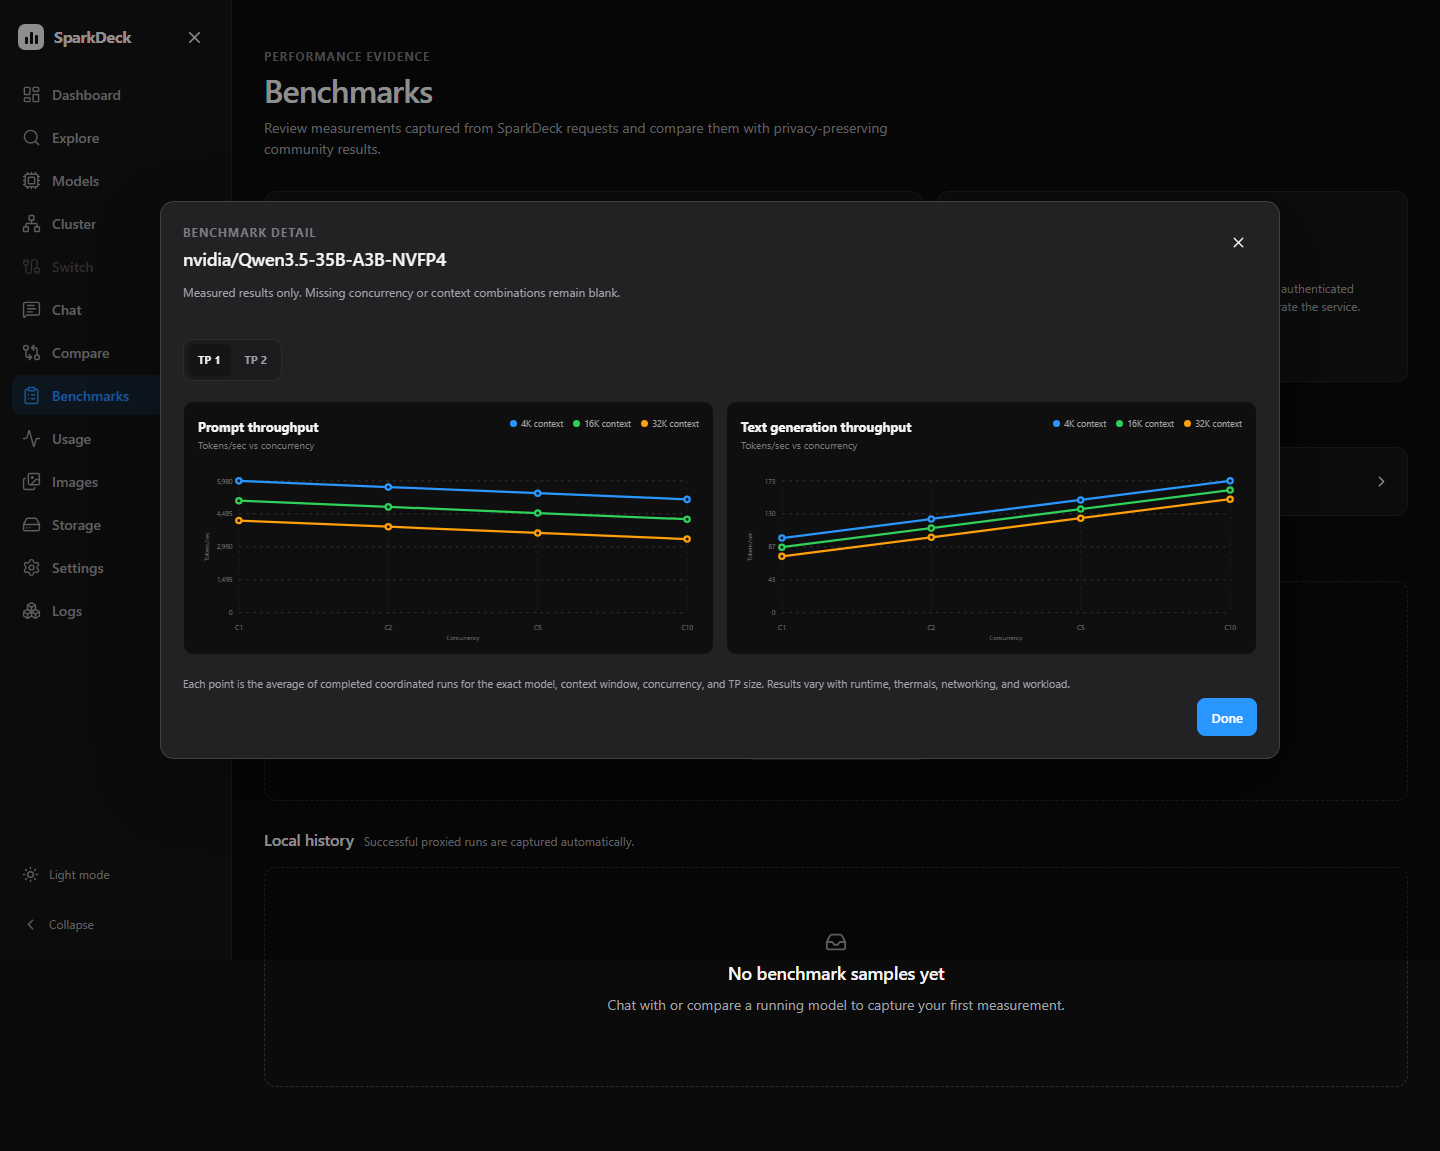
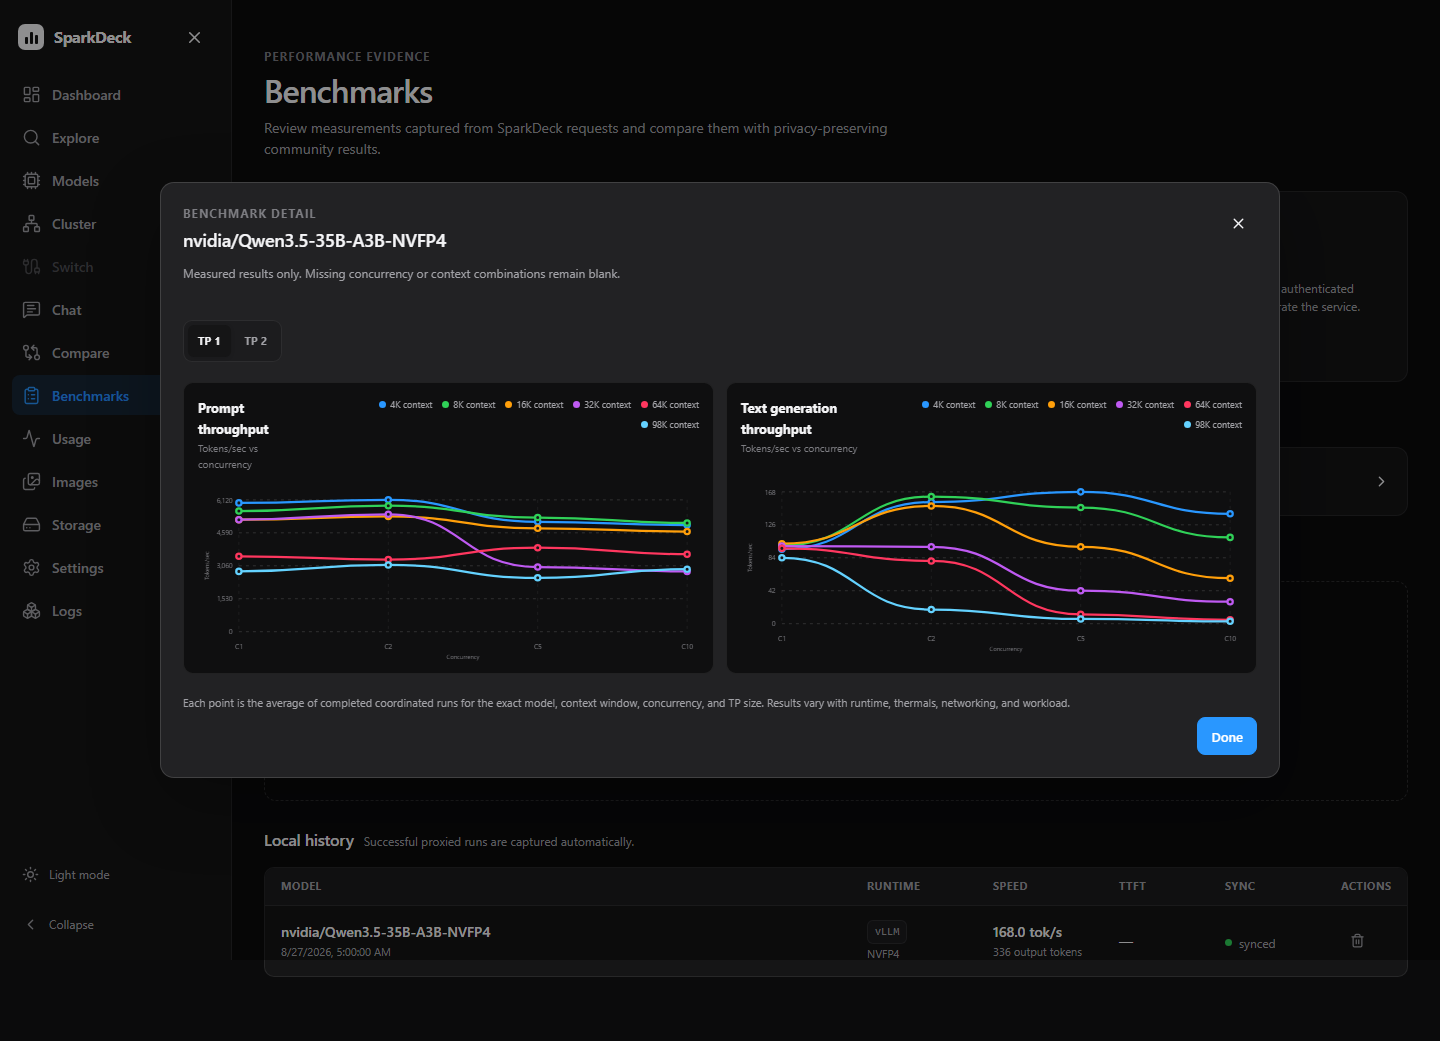
fix: make benchmark sample curves realistic

diff --git a/frontend/src/styles.css b/frontend/src/styles.css
@@ -232,7 +232,7 @@ h2 { font-size: 18px; line-height: 1.35; font-weight: 600; letter-spacing: -0.01
 .aggregate-grid { display: grid; grid-template-columns: repeat(3, minmax(0, 1fr)); gap: 14px; }.aggregate-item { padding: 16px; }.aggregate-item > div:first-child { display: flex; align-items: flex-start; justify-content: space-between; gap: 10px; }.aggregate-model { font-weight: 600; overflow-wrap: anywhere; }.aggregate-item dl { display: grid; gap: 9px; margin: 16px 0; padding-block: 13px; border-block: 1px solid var(--border-subtle); }.aggregate-item dl div { display: flex; justify-content: space-between; gap: 12px; }.aggregate-item dt { color: var(--text-secondary); font-size: 12px; }.aggregate-item dd { text-align: right; font-size: 12px; font-weight: 600; }
 .estimate-label { color: var(--text-secondary); font-size: 11px; white-space: nowrap; }.aggregate-policy { margin: 10px 0 24px; color: var(--text-secondary); font-size: 12px; }
 .benchmark-model-panel { padding: 0; overflow: hidden; }.benchmark-model-list { display: grid; }.benchmark-model-row { min-width: 0; display: grid; grid-template-columns: auto minmax(210px, 1.5fr) repeat(4, minmax(100px, .65fr)) auto; align-items: center; gap: 14px; padding: 15px 17px; color: var(--text-primary); background: transparent; border: 0; border-bottom: 1px solid var(--border-subtle); text-align: left; cursor: pointer; }.benchmark-model-row:last-child { border-bottom: 0; }.benchmark-model-row:hover { background: var(--bg-subtle); }.benchmark-model-row > span { min-width: 0; display: grid; gap: 2px; }.benchmark-model-row small { color: var(--text-tertiary); font-size: 10px; }.benchmark-model-row strong { overflow: hidden; font-size: 12px; text-overflow: ellipsis; white-space: nowrap; }.benchmark-model-icon { width: 32px; height: 32px; place-items: center; color: var(--accent); background: var(--accent-soft); border-radius: 8px; }.benchmark-model-main strong { font-size: 13px; }.benchmark-model-main small { overflow: hidden; text-overflow: ellipsis; white-space: nowrap; }
-.benchmark-model-title + * { min-width: 0; }.legal-modal:has(#benchmark-model-title) { width: min(1120px, 100%); }.benchmark-tp-tabs { width: max-content; display: flex; gap: 4px; padding: 4px; background: var(--bg-subtle); border: 1px solid var(--border-subtle); border-radius: 9px; }.benchmark-tp-tabs button { min-height: 32px; padding: 6px 10px; color: var(--text-secondary); background: transparent; border: 0; border-radius: 6px; font-size: 11px; font-weight: 650; cursor: pointer; }.benchmark-tp-tabs button[aria-selected='true'] { color: var(--text-primary); background: var(--bg-surface); box-shadow: 0 1px 4px rgba(0,0,0,.1); }.benchmark-chart-stack { display: grid; grid-template-columns: 1fr 1fr; gap: 12px; }.benchmark-chart { min-width: 0; padding: 14px; color: var(--text-primary); background: color-mix(in srgb, var(--bg-canvas) 65%, var(--bg-surface)); border: 1px solid var(--border-subtle); border-radius: 10px; }.benchmark-chart-heading { display: flex; align-items: flex-start; justify-content: space-between; gap: 12px; }.benchmark-chart h3 { margin: 0; font-size: 13px; }.benchmark-chart-heading p { color: var(--text-tertiary); font-size: 10px; }.benchmark-chart-legend { display: flex; flex-wrap: wrap; justify-content: flex-end; gap: 5px 10px; }.benchmark-chart-legend span { display: inline-flex; align-items: center; gap: 4px; color: var(--text-secondary); font-size: 9px; }.benchmark-chart-legend i { width: 7px; height: 7px; border-radius: 50%; background: currentColor; }.benchmark-chart svg { width: 100%; height: auto; margin-top: 8px; overflow: visible; }.chart-grid-line { stroke: var(--border-strong); stroke-width: 1; stroke-dasharray: 3 4; vector-effect: non-scaling-stroke; }.chart-grid-vertical { opacity: .45; }.chart-axis-label, .chart-axis-title { fill: var(--text-tertiary); font-size: 10px; }.chart-axis-title { font-size: 9px; }.chart-series { color: var(--accent); }.chart-series polyline { fill: none; stroke: currentColor; stroke-width: 2.25; stroke-linecap: round; stroke-linejoin: round; vector-effect: non-scaling-stroke; }.chart-series circle { fill: var(--bg-surface); stroke: currentColor; stroke-width: 2.25; vector-effect: non-scaling-stroke; }.chart-color-0 { color: #2997ff; }.chart-color-1 { color: #30d158; }.chart-color-2 { color: #ff9f0a; }.chart-color-3 { color: #bf5af2; }.chart-color-4 { color: #ff375f; }.chart-color-5 { color: #64d2ff; }.benchmark-chart-empty { min-height: 210px; display: grid; place-items: center; color: var(--text-secondary); font-size: 12px; }.benchmark-method-note { color: var(--text-secondary); font-size: 11px; }
+.benchmark-model-title + * { min-width: 0; }.legal-modal:has(#benchmark-model-title) { width: min(1120px, 100%); }.benchmark-tp-tabs { width: max-content; display: flex; gap: 4px; padding: 4px; background: var(--bg-subtle); border: 1px solid var(--border-subtle); border-radius: 9px; }.benchmark-tp-tabs button { min-height: 32px; padding: 6px 10px; color: var(--text-secondary); background: transparent; border: 0; border-radius: 6px; font-size: 11px; font-weight: 650; cursor: pointer; }.benchmark-tp-tabs button[aria-selected='true'] { color: var(--text-primary); background: var(--bg-surface); box-shadow: 0 1px 4px rgba(0,0,0,.1); }.benchmark-chart-stack { display: grid; grid-template-columns: 1fr 1fr; gap: 12px; }.benchmark-chart { min-width: 0; padding: 14px; color: var(--text-primary); background: color-mix(in srgb, var(--bg-canvas) 65%, var(--bg-surface)); border: 1px solid var(--border-subtle); border-radius: 10px; }.benchmark-chart-heading { display: flex; align-items: flex-start; justify-content: space-between; gap: 12px; }.benchmark-chart h3 { margin: 0; font-size: 13px; }.benchmark-chart-heading p { color: var(--text-tertiary); font-size: 10px; }.benchmark-chart-legend { display: flex; flex-wrap: wrap; justify-content: flex-end; gap: 5px 10px; }.benchmark-chart-legend span { display: inline-flex; align-items: center; gap: 4px; color: var(--text-secondary); font-size: 9px; }.benchmark-chart-legend i { width: 7px; height: 7px; border-radius: 50%; background: currentColor; }.benchmark-chart svg { width: 100%; height: auto; margin-top: 8px; overflow: visible; }.chart-grid-line { stroke: var(--border-strong); stroke-width: 1; stroke-dasharray: 3 4; vector-effect: non-scaling-stroke; }.chart-grid-vertical { opacity: .45; }.chart-axis-label, .chart-axis-title { fill: var(--text-tertiary); font-size: 10px; }.chart-axis-title { font-size: 9px; }.chart-series { color: var(--accent); }.chart-series path { fill: none; stroke: currentColor; stroke-width: 2.25; stroke-linecap: round; stroke-linejoin: round; vector-effect: non-scaling-stroke; }.chart-series circle { fill: var(--bg-surface); stroke: currentColor; stroke-width: 2.25; vector-effect: non-scaling-stroke; }.chart-color-0 { color: #2997ff; }.chart-color-1 { color: #30d158; }.chart-color-2 { color: #ff9f0a; }.chart-color-3 { color: #bf5af2; }.chart-color-4 { color: #ff375f; }.chart-color-5 { color: #64d2ff; }.benchmark-chart-empty { min-height: 210px; display: grid; place-items: center; color: var(--text-secondary); font-size: 12px; }.benchmark-method-note { color: var(--text-secondary); font-size: 11px; }
 
 .pull-panel { display: grid; grid-template-columns: minmax(180px, .75fr) minmax(360px, 1.5fr); align-items: start; gap: 24px; padding: 18px; }.pull-panel > div p { margin-top: 4px; color: var(--text-secondary); font-size: 12px; }.pull-panel form { display: grid; grid-template-columns: minmax(0, 1fr) auto; align-items: end; gap: 14px 10px; }.pull-panel form .node-selector { grid-column: 1 / -1; }.pull-panel .inline-error, .pull-panel .inline-success { grid-column: 1 / -1; }.image-list { display: grid; gap: 8px; }.image-row { display: grid; grid-template-columns: auto minmax(0, 1fr) auto auto; gap: 14px; align-items: center; padding: 14px; }.image-icon { width: 34px; height: 34px; display: grid; place-items: center; border-radius: 8px; background: var(--bg-subtle); border: 1px solid var(--border-subtle); color: var(--text-secondary); }.image-main { min-width: 0; }.image-main h2 { font-size: 14px; overflow-wrap: anywhere; }.image-main p { max-width: 620px; color: var(--text-tertiary); font-size: 11px; overflow: hidden; text-overflow: ellipsis; }.image-main .runtime-row { margin-top: 7px; min-height: 0; }.image-nodes { min-width: 0; display: flex; align-items: center; flex-wrap: wrap; gap: 5px; margin-top: 7px; }.availability-label { display: inline-flex; align-items: center; gap: 4px; color: var(--text-tertiary); font-size: 11px; }.image-node-chip { max-width: 180px; padding: 2px 6px; overflow: hidden; color: var(--accent); background: var(--accent-soft); border-radius: 5px; font-size: 11px; font-weight: 600; text-overflow: ellipsis; white-space: nowrap; }.image-size { display: flex; align-items: center; gap: 6px; color: var(--text-secondary); font-size: 12px; }
 

diff --git a/frontend/e2e/responsive.spec.ts b/frontend/e2e/responsive.spec.ts
@@ -1,6 +1,14 @@
 import { expect, test } from '@playwright/test'
 
 const routes = ['/', '/dashboard', '/explore', '/models', '/cluster', '/switch', '/chat', '/compare', '/benchmarks', '/usage', '/images', '/storage', '/settings', '/logs']
+const benchmarkCurves = [
+  { context: 4096, prompt: [5980, 6120, 5100, 4950], generation: [95, 155, 168, 140] },
+  { context: 8192, prompt: [5600, 5850, 5300, 5050], generation: [100, 162, 148, 110] },
+  { context: 16384, prompt: [5200, 5350, 4800, 4650], generation: [102, 150, 98, 58] },
+  { context: 32768, prompt: [5200, 5450, 3000, 2800], generation: [99, 98, 42, 28] },
+  { context: 65536, prompt: [3500, 3350, 3900, 3600], generation: [96, 80, 12, 5] },
+  { context: 100000, prompt: [2800, 3100, 2500, 2900], generation: [84, 18, 6, 3] },
+]
 
 test.beforeEach(async ({ page }) => {
   let settings = { theme: 'light', default_runtime: 'vllm', default_context_length: 8192, community_api_url: '' }
@@ -29,20 +37,26 @@ test.beforeEach(async ({ page }) => {
     else if (path.endsWith('/onboarding')) body = { role: 'controller', node: { id: 'local', name: 'Studio controller', port: 7878, access_urls: ['https://controller.tailnet.ts.net:7878'] }, controller_reachable: true, join_code: 'PAIR-123', instructions: [] }
     else if (path.endsWith('/benchmark-models')) body = { items: [{
       model_id: 'nvidia/Qwen3.5-35B-A3B-NVFP4', run_count: 12,
-      best_prompt_tokens_per_second: 5980, best_generation_tokens_per_second: 174,
-      context_windows: [4096, 16384, 32768], tensor_parallel_sizes: [1, 2],
+      best_prompt_tokens_per_second: 6120, best_generation_tokens_per_second: 168,
+      context_windows: benchmarkCurves.map(({ context }) => context), tensor_parallel_sizes: [1, 2],
       latest_at: '2026-08-27T12:00:00Z',
     }] }
     else if (path.includes('/benchmark-models/')) body = {
       model_id: 'nvidia/Qwen3.5-35B-A3B-NVFP4',
-      points: [4096, 16384, 32768].flatMap((context, contextIndex) => [1, 2, 5, 10].map((concurrency, index) => ({
+      points: benchmarkCurves.flatMap(({ context, prompt, generation }) => [1, 2, 5, 10].map((concurrency, index) => ({
         context_window_size: context, concurrency, tensor_parallel_size: 1,
-        prompt_tokens_per_second: 5980 - contextIndex * 900 - index * 280,
-        generation_tokens_per_second: 98 + index * 25 - contextIndex * 12,
+        prompt_tokens_per_second: prompt[index],
+        generation_tokens_per_second: generation[index],
         sample_count: 3,
       }))).concat([{ context_window_size: 16384, concurrency: 1, tensor_parallel_size: 2, prompt_tokens_per_second: 6200, generation_tokens_per_second: 112, sample_count: 2 }]),
     }
-    else if (path.includes('/benchmarks')) body = { items: [], total: 0, limit: 100, offset: 0 }
+    else if (path.includes('/benchmarks')) body = { items: [{
+      id: 'run-latest', created_at: '2026-08-27T12:00:00Z', deployment_id: 'dep-1',
+      model: { repository: 'nvidia/Qwen3.5-35B-A3B-NVFP4', quantization: 'NVFP4' },
+      runtime: 'vllm', hardware: { hardware_class: 'dgx-spark' }, input_tokens: 12240,
+      output_tokens: 336, latency_ms: 2000, generation_tokens_per_second: 168,
+      cold_start: false, eligible_for_community: true, sync_state: 'synced',
+    }], total: 1, limit: 100, offset: 0 }
     else if (path.endsWith('/community/sync')) body = { consent: true, pairing: { status: 'paired' }, outbox: { pending: 1, synced: 4 } }
     else if (path.endsWith('/community/aggregates')) body = { items: [], availability: 'not_configured', evidence_policy: { minimum_samples: 10, exact_match_dimensions: ['model_id', 'context_window_size'], metric: 'inference_tokens_per_second' } }
     else if (path.endsWith('/images')) body = { items: [{ id: 'sha256:remote', repository: 'org/remote-runtime', tag: 'v1', size: 2147483648, runtimes: ['vllm'], node_ids: ['spark-2'], selected_nodes: [{ id: 'spark-2', name: 'Studio Spark' }] }] }
@@ -113,7 +127,7 @@ test('renders the benchmark explorer dialog in dark mode without overflow', asyn
   await page.route('**/api/v1/settings', async (route) => route.fulfill({ json: { theme: 'dark', hf_token_configured: false, community_api_url: '' } }))
   await page.goto('/benchmarks')
   await expect(page.locator('html')).toHaveAttribute('data-theme', 'dark')
-  await page.getByRole('button', { name: /nvidia\/Qwen3.5-35B-A3B-NVFP4/ }).click()
+  await page.getByRole('button', { name: /^nvidia\/Qwen3.5-35B-A3B-NVFP4 12 runs/ }).click()
   const dialog = page.getByRole('dialog', { name: 'nvidia/Qwen3.5-35B-A3B-NVFP4' })
   await expect(dialog).toBeVisible()
   await expect(dialog.getByRole('img', { name: /^Prompt throughput/ })).toBeVisible()

diff --git a/frontend/src/components/BenchmarkLineChart.tsx b/frontend/src/components/BenchmarkLineChart.tsx
@@ -15,6 +15,21 @@ function compactTokens(value: number) {
   return value >= 1024 ? `${Number((value / 1024).toFixed(value >= 10240 ? 0 : 1))}K` : String(value)
 }
 
+function smoothPath(
+  points: BenchmarkSeriesPoint[],
+  metric: BenchmarkLineChartProps['metric'],
+  x: (concurrency: number) => number,
+  y: (value: number) => number,
+) {
+  const coordinates = points.map((point) => ({ x: x(point.concurrency), y: y(point[metric]) }))
+  if (!coordinates.length) return ''
+  return coordinates.slice(1).reduce((path, point, index) => {
+    const previous = coordinates[index]
+    const midpoint = (previous.x + point.x) / 2
+    return `${path} C ${midpoint} ${previous.y}, ${midpoint} ${point.y}, ${point.x} ${point.y}`
+  }, `M ${coordinates[0].x} ${coordinates[0].y}`)
+}
+
 export function BenchmarkLineChart({ title, metric, points }: BenchmarkLineChartProps) {
   const windows = [...new Set(points.map((point) => point.context_window_size))].sort((a, b) => a - b)
   const maximum = Math.max(1, ...points.map((point) => point[metric]))
@@ -47,7 +62,7 @@ export function BenchmarkLineChart({ title, metric, points }: BenchmarkLineChart
             })
             if (segment.length) segments.push(segment)
             return <g className={`chart-series chart-color-${colorIndex % 6}`} key={window}>
-              {segments.filter((items) => items.length > 1).map((items, index) => <polyline key={index} points={items.map((point) => `${x(point.concurrency)},${y(point[metric])}`).join(' ')} />)}
+              {segments.filter((items) => items.length > 1).map((items, index) => <path key={index} d={smoothPath(items, metric, x, y)} />)}
               {[...values.values()].map((point) => <circle key={point.concurrency} cx={x(point.concurrency)} cy={y(point[metric])} r="4"><title>{compactTokens(window)} context, C{point.concurrency}: {point[metric].toFixed(1)} tok/s from {point.sample_count} run{point.sample_count === 1 ? '' : 's'}</title></circle>)}
             </g>
           })}

diff --git a/frontend/src/pages/BenchmarksPage.test.tsx b/frontend/src/pages/BenchmarksPage.test.tsx
@@ -61,6 +61,8 @@ describe('BenchmarksPage community privacy', () => {
     expect(within(dialog).getByRole('img', { name: /^Text generation throughput/ })).toBeInTheDocument()
     expect(within(dialog).getAllByText('C1').length).toBeGreaterThan(0)
     expect(within(dialog).getAllByText('C10').length).toBeGreaterThan(0)
+    expect(dialog.querySelectorAll('.chart-series path').length).toBeGreaterThan(0)
+    expect(dialog.querySelector('polyline')).not.toBeInTheDocument()
     await user.click(within(dialog).getByRole('tab', { name: 'TP 2' }))
     expect(within(dialog).getAllByText('16K context').length).toBeGreaterThan(0)
     expect(within(dialog).queryByText('4K context')).not.toBeInTheDocument()
